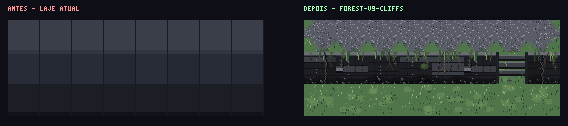
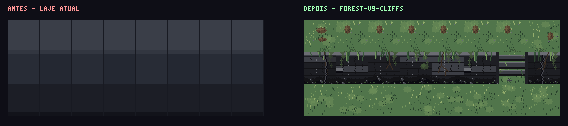
GS-003 art: fix topo do mirante (forest-v9-cliffs r2) + decisao de escala do Tamer
A) Topo do kit forest-v9-cliffs lia como pedra cinza-arroxeada (QA game-dev,
P7_GS012_DEV_R2.md Sec4) com mancha verde retangular visivel. Causa: cliffTopFg
usava d.cliffTop (copia escurecida de base.ground.stone -- pedra de verdade),
entao um tile de topo 100% interior (blob mask 15, R=0 em blob_autotile16) nunca
mostrava o fundo de grama. Fix: cliffTopFg agora usa d.grass (mesma rampa de
groundBase/cliffTopBg) como base, com manchas de terra batida (d.dirt) e pedrinhas
esparsas como minoria -- fg e bg do autotile compartilham paleta, entao o contraste
duro que lia como retangulo nos cantos arredondados some. So cliffTopFg mudou (face,
cantos, rampa, decalques intocados -- ja aprovados pelo QA). 16 tiles de topo + preview
+ mirante_comparison regenerados, 0 geracoes PixelLab. Mosaico dedicado r1-vs-r2 em
quality-overhaul/phase3/art/. Instrucoes de re-integracao para game-dev no relatorio
(mesmos nomes de arquivo, nenhuma mudanca de schema).

B) ART_DIRECTION_V2.md Sec1.5 nova: decisao de escala do Tamer, resolvendo os 3
numeros nao reconciliados achados por QA_P8_AND_V3FIX.md Sec1.2.1 (52-60px Sec1.2
descartada, 56-64px nativos Sec1.4 nao testado, ~90px fisicos de tela em
PHASE2_DEV.md Sec2). Decisao: 56-64px nativos / canvas 64-72px e o unico padrao
oficial (harmonizado com o Rookie/Guilmon ja testado); Sec1.2 marcada superada; os
90px fisicos documentados como grandeza diferente (tela pos-zoom, nao arte nativa),
[…]

Changed region(s): [[0.5088, 0.1429, 0.9877, 0.4286]]

diff --git a/projects/prototypes/GS-003/art/src/gen_forest_v9_cliffs.js b/projects/prototypes/GS-003/art/src/gen_forest_v9_cliffs.js
@@ -137,15 +137,50 @@ function stampRubble(c, cx, cy, d_, rnd, count) {
 // =========================================================================
 function cliffTopFg(c, x0, y0, w, h, _ramp, seed) {
   const rnd = rng(seed);
-  const top = d.cliffTop;
-  c.fillRect(x0, y0, x0 + w - 1, y0 + h - 1, top[1]);
-  for (let i = 0; i < Math.round(w * h * 0.12); i++) {
-    const px = x0 + Math.floor(rnd() * w), py = y0 + Math.floor(rnd() * h);
-    c.setPixel(px, py, rnd() < 0.5 ? top[0] : top[2]);
-  }
+  // r2 fix (QA P1-1, 2026-11-10): v2 filled the WHOLE top with d.cliffTop
+  // (a darkened/cooled copy of base.ground.stone -- literally rock), which
+  // is why the plateau read as a flat gray-purple stone slab even after
+  // the face got vegetation. The clearing's actual ground cover is grass,
+  // so an interior top tile (fully surrounded -- R=0 at every corner in
+  // blob_autotile16, 0% of cliffTopBg's grass shows through) must be
+  // grass-based on its own, not rely on bg peeking through corners. Base
+  // fill + speckle below mirrors groundBase() (same d.grass ramp as the
+  // forest floor everywhere else) so the plateau top matches the clearing
+  // instead of contrasting with it, and fg/bg no longer fight each other
+  // in blob corners -- that mismatch is what the dev report calls the
+  // visible "mancha verde retangular" (old stone fg meeting grass bg at a
+  // hard, differently-toned edge inside the same tile).
+  const g = d.grass;
+  c.fillRect(x0, y0, x0 + w - 1, y0 + h - 1, g[2]);
   for (let i = 0; i < 5; i++) {
-    const px = x0 + Math.floor(rnd() * w * 0.7), py = y0 + Math.floor(rnd() * h * 0.7);
-    c.setPixel(px, py, top[3]);
+    const cx = x0 + 3 + Math.floor(rnd() * Math.max(1, w - 6)), cy = y0 + 3 + Math.floor(rnd() * Math.max(1, h - 6));
+    c.fillEllipse(cx, cy, 4, 3, withAlpha(g[3], 120));
+  }
+  for (let i = 0; i < 40; i++) {
+    const bx = x0 + 1 + Math.floor(rnd() * (w - 2)), by = y0 + 1 + Math.floor(rnd() * (h - 3));
+    const lit = (bx + by) < 30;
+    const tone = lit ? pick(rnd, [g[4], g[3]]) : pick(rnd, [g[0], g[1]]);
+    c.setPixel(bx, by, tone);
+    if (rnd() < 0.5) c.setPixel(bx, by + 1, tone);
+  }
+  // worn-earth patches: packed dirt where feet/paws cross the lookout,
+  // 1-2 irregular blobs per tile (not a full stone sheet) -- the only
+  // "this sits on rock" cue left on the main surface, kept a minority so
+  // the top does not read as a slab again.
+  const dirtPatches = 1 + (rnd() < 0.35 ? 1 : 0);
+  for (let i = 0; i < dirtPatches; i++) {
+    const cx = x0 + 6 + Math.floor(rnd() * Math.max(1, w - 12)), cy = y0 + 6 + Math.floor(rnd() * Math.max(1, h - 12));
+    const rx = 3 + Math.floor(rnd() * 4), ry = 2 + Math.floor(rnd() * 3);
+    c.fillEllipse(cx, cy, rx, ry, d.dirt[1]);
+    c.fillEllipse(cx - 1, cy - 1, Math.max(1, rx - 2), Math.max(1, ry - 2), d.dirt[2]);
+    for (let p = 0; p < 6; p++) c.setPixel(cx + Math.round((rnd() - 0.5) * rx * 2), cy + Math.round((rnd() - 0.5) * ry * 2), d.dirt[0]);
+  }
+  // sparse pebbles poking through the turf -- minority presence, a nod to
+  // the rock underneath without dominating the read.
+  for (let i = 0; i < 3; i++) {
+    const px = x0 + Math.floor(rnd() * w), py = y0 + Math.floor(rnd() * h);
+    c.setPixel(px, py, d.stone[1]);
+    if (rnd() < 0.4) c.setPixel(px + 1, py, withAlpha(d.stone[0], 180));
   }
   // crumbling south edge: jittered moss/soil scatter, denser than v8, plus
   // a handful of grass blades poking past the edge (continues onto the

diff --git a/projects/prototypes/GS-003/quality-overhaul/phase3/art/MIRANTE_TOP_AND_SCALE.md b/projects/prototypes/GS-003/quality-overhaul/phase3/art/MIRANTE_TOP_AND_SCALE.md
@@ -1,0 +1,75 @@
+# Mirante — fix do topo + decisão de escala do Tamer (game-art, 2026-11-10)
+
+- **Autor:** game-art (diretor de arte) · GS-003 Quality Overhaul.
+- **Autorização:** noturna do fundador, **custo ZERO** — nenhuma ferramenta geradora do PixelLab usada (saldo 0,80 intocado). Tudo abaixo é pipeline local (`art/src/*.js`, Canvas.js próprio) ou edição de texto. Não publiquei nem apaguei nada.
+- **Legenda:** **[E]** evidência (arquivo/comando/medição de hoje) · **[H]** hipótese/julgamento.
+
+## A) Topo do mirante — `forest-v9-cliffs`
+
+### Diagnóstico [E]
+
+- Relatório do game-dev (`quality-overhaul/phase3/P7_GS012_DEV_R2.md` §4, worktree `workspaces/game-dev/qo`): kit `forest-v9-cliffs` (commit `6110bab`) integrado na branch `quality-overhaul`; a face melhorou (musgo, raízes), mas **"o topo do platô (3 linhas) continua uma placa de pedra cinza-arroxeada granulada, e a mancha verde retangular no meio do topo (camada antiga) evidencia o recorte"**.
+- Inspecionei as capturas `phase3/img/p7_mirante_depois_v9kit_dia_r2.png` e `_zoom_r2.png` (copiadas para revisão local, não editadas) — confirmo visualmente: faixa de ~3 tiles de topo em ruído cinza-azulado uniforme, e uma faixa verde plana com bordas retas logo acima do muro de face, sem textura orgânica, contrastando com o chão de grama ao redor.
+- **Causa raiz, lida no código** (`art/src/gen_forest_v9_cliffs.js`, `cliffTopFg` da v2/r1): a textura do topo usava `d.cliffTop` — em `forest_v8_depth_palette.js`, essa rampa é **literalmente** `base.ground.stone` escurecido e resfriado (`shiftColor(base.ground.stone[n], {vMul: 0.62–0.98, hueDeg: 4–6})`), ou seja, o topo era pedra de propósito, não terra/grama. Em `blob_autotile16.js`, um tile de topo totalmente cercado (bitmask 15, N/E/S/W presentes) tem raio de arredondamento `R=0` em todos os 4 cantos → **0% do fundo (`cliffTopBg`, grama) aparece**, 100% é a textura de pedra do `cliffTopFg` — por isso a maior parte do platô lia como laje de pedra mesmo depois do kit "orgânico". Nos cantos onde `R>0` (tiles de borda/ilha), o fundo de grama aparecia em quartos de círculo contra o fg de pedra cinza — esse contraste duro pedra-vs-grama dentro do mesmo tile é a origem mais provável da "mancha verde retangular" (fg e bg nunca tinham a mesma paleta para se misturar).
+
+### Correção [E]
+
+- Editei só `cliffTopFg()` em `art/src/gen_forest_v9_cliffs.js` (face, cantos, rampa e decalques **não foram tocados** — o QA do game-dev já aprovou essa parte, "se necessário" do pedido não se aplicou).
+- Base do topo trocada de `d.cliffTop` (pedra) para `d.grass` (a MESMA rampa de grama usada em `groundBase()`/`cliffTopBg()` e em todo o chão da clareira) — um tile totalmente interior agora lê como grama, não pedra.
+- Adicionado: 1–2 manchas irregulares de terra batida (`d.dirt`, não um retângulo — elipses irregulares, posição e tamanho por ruído) simulando uso/pisoteio no mirante; pedrinhas esparsas (`d.stone`, minoria, só um aceno de "isto é rocha por baixo"); borda sul (transição para a face) mantida como já estava — musgo/grama por ruído (`wobbleProfile`), já lia bem e o QA não reclamou dela.
+- Como fg e bg agora compartilham a mesma paleta de grama, o contraste duro que criava a leitura de "mancha retangular" nos cantos arredondados do autotile some — fg e bg se misturam em vez de colidir.
+- **Arquivos alterados:** `art/src/gen_forest_v9_cliffs.js` (só `cliffTopFg`) e os 16 PNGs regenerados em `art/map-factory/forest-v9-cliffs/tiles/cliff_top_blob_0.png` … `cliff_top_blob_15.png` (mesmos nomes, mesmo tamanho 32×32, mesma geometria de autotile — só a textura mudou). `preview.png` e `mirante_comparison.png` do kit também foram regenerados (mesmos nomes). `tileset.json`/`palette.json`/`license.json`/`README.md` do kit foram re-escritos pelo script mas o conteúdo não mudou (git confirma 0 diff nesses 4 arquivos).
+
+### Prévias
+
+- `projects/prototypes/GS-003/quality-overhaul/phase3/art/mirante_top_r1_vs_r2.png` (novo, gerado agora): mosaico dedicado comparando as 16 variantes de topo **r1 (commit `6110bab`, pedra cinza-arroxeada)** vs **r2 (este fix, grama/terra)**, lado a lado, mesma ordem de bitmask. Build local (`/tmp/build_top_r1r2_compare.js`, script descartável, não commitado — não faz parte do pipeline do kit).
+- `art/map-factory/forest-v9-cliffs/preview.png` (atualizado): prancha completa do kit (topo 16 + faces + cantos/rampa + decalques) já mostra o topo novo.
+- `art/map-factory/forest-v9-cliffs/mirante_comparison.png` (atualizado): a montagem "antes (laje v8) vs depois (kit)" de 8×3 do próprio kit, regenerada com o topo corrigido.
+
+### Instruções exatas para o game-dev re-integrar
+
+1. Puxar `master` de novo no worktree `quality-overhaul` (`git merge master`, como já fez para pegar `6110bab` — sem conflito esperado, só os 16 PNGs de topo + o `.js` gerador mudaram).
+2. **Nenhuma mudança de nome de arquivo ou de schema** — os 16 `cliff_top_blob_0.png`…`cliff_top_blob_15.png` continuam com os mesmos nomes, mesmo tamanho (32×32) e a mesma convenção de bitmask (`N*1+E*2+S*4+W*8`) de antes. O derivador (`derive-look-v9.mjs`) não precisa de nenhum ajuste de mapeamento — é o mesmo swap `fp8_cliff_*` → `fp9c_*` que já faz, só repetir para pegar os PNGs novos.
+3. Re-rodar `scripts/qo3-capture.mjs mirante` para novas capturas `_r3` (ou sufixo que preferirem) e confirmar visualmente: topo deve ler como grama/terra do mesmo tom do resto da clareira, sem faixa de pedra uniforme e sem retângulo verde de contraste duro.
+4. Se a "mancha retangular" **ainda** aparecer depois deste fix, não é mais textura do kit (fg/bg já compartilham paleta) — provavelmente é uma camada antiga do mapa (chão/decor anterior ao kit) não totalmente coberta pelas 16 variantes de topo nas células do mirante; nesse caso o próximo passo é conferir, célula a célula do platô, se alguma usa um bitmask fora do conjunto 0–15 ou se há uma layer de chão antiga visível por baixo — isso é integração (game-dev), não art.
+
+### Limitações (autocrítica)
+
+- **Não testado no motor real** — só inspecionado via `preview.png`, `mirante_comparison.png` e o mosaico dedicado `mirante_top_r1_vs_r2.png`. Não tenho acesso de escrita ao worktree do game-dev para rodar `qo3-capture.mjs` e confirmar in-game; só o próprio game-dev pode fazer essa re-captura.
+- A hipótese da causa-raiz da "mancha verde retangular" (contraste fg/bg nos cantos arredondados do blob) é **[H]** — lida no código, não confirmada pixel a pixel contra a captura real do bug (não tenho o PNG da célula exata do mapa que tinha a mancha, só a visão geral/zoom da clareira). Se a causa real for outra (ex. camada antiga do mapa não substituída), o item 4 das instruções acima cobre esse caso.
+- A terra batida e as pedrinhas esparsas continuam sendo ruído procedural (`wobbleProfile`/posições aleatórias clampadas), não desenho à mão — mesma limitação já registrada no `README.md` original do kit (v2): resolve a leitura "pedra lisa"/"mancha retangular", mas de perto ainda é claramente procedural.
+- Não toquei a face, os cantos, a rampa nem os decalques — o QA do game-dev já aprovou essa parte da r1; se uma futura passada quiser uniformizar ainda mais a transição topo↔face, isso fica para uma próxima rodada.
+
+## B) Decisão de escala do Tamer
+
+### O que foi decidido
+
+- Arquivo: `projects/prototypes/GS-003/quality-overhaul/ART_DIRECTION_V2.md`, nova seção **§1.5 "Decisão de escala — 2026-11-10 (Tamer, resolve QA P8 §1.2.1)"**, inserida ao final da seção 1 (depois de §1.4.4, antes de "## 2. Paleta por região").
+- **Padrão oficial único:** arte nativa do Tamer em **56–64 px de altura de corpo, canvas 64–72 px** — a mesma faixa já testada e confirmada para o Rookie/Guilmon (`phase2/art/scale-proof/`, 60×68 px), harmonizando jogador e parceiro na mesma régua "nível Drakantos". Isso faz de `§1.4.1` o único número de arte nativa válido para o Tamer a partir de hoje.
+- **Os "52–60 px" de §1.2 ficam formalmente superados** — já estavam marcados "não usar para produção" desde a revisão de §1.4, mas voltaram a ser citados por `QA_PHASE3.md`; adicionei uma nota em §1.2 apontando explicitamente para §1.5, para fechar esse loop de citação.
+- **O "~90 px físicos" de `phase2/PHASE2_DEV.md` §2 não é o mesmo tipo de número** — é o tamanho RENDERIZADO NA TELA do placeholder atual (Tamer de 30 px lógicos × fator de escala inteiro 3 do `dprLayout()`, alvo `charh` ≈ 9% da altura física), não o tamanho da arte nativa. A decisão documenta essa distinção explicitamente (arte nativa vs. zoom de tela são grandezas diferentes) e registra que, quando o Tamer for redesenhado em 56–64 px nativos (quase o dobro do placeholder), o fator inteiro do `dprLayout()` precisa cair (de 3× para algo entre 1× e 2×) para manter o mesmo alvo de tela já aprovado — valor exato fica para `game-dev` testar no jogo real, mesma ressalva que §1.4.2 já registrava para o Rookie.
+
+### Como isso desbloqueia o P8
+
+- O retrato mini (48×48 px) e o retrato grande (72×72 px, spec P8 §4.1/§5) agora têm uma única fonte de verdade para o tamanho de arte nativa a recortar (56–64 px / canvas 64–72 px), eliminando a escolha entre 3 números concorrentes que travava a decisão.
+- Para o parceiro Digimon (Guilmon/Rookie) não havia bloqueio real: a escala já estava confirmada e testada; o retrato pode ser recortado da arte existente.
+- Para o Tamer, a arte na escala nova ainda não existe (só o Guilmon foi testado, confirmado em §1.4.4) — a decisão não cria a arte (fora do escopo de uma noite de custo zero), mas remove a ambiguidade que impedia a spec de sequer declarar qual tamanho usar. Um retrato feito hoje do sprite placeholder de 30 px deve ser marcado como provisório, não final — isso também ficou registrado na seção nova.
+
+### Limitações (autocrítica)
+
+- A decisão é de **arte** (tamanho do sprite), não resolve zoom/câmera — mesma ressalva que `§1.4.2` já tinha para o Rookie; a recalibração exata do `dprLayout()` fica para `game-dev` testar.
+- Não gerei nem redesenhei o sprite do Tamer na nova escala — isso exigiria gerações do PixelLab (saldo 0,80, não autorizado hoje). A decisão só fixa o número-alvo para quando o orçamento permitir.
+- A relação "~90px → algo entre 1× e 2×" é estimativa aritmética simples (30px × 3 ≈ 56–64px × [1–2]) **[H]**, não testada; o `dprLayout()` real arredonda para fator inteiro de tela, então o valor final pode cair fora dessa faixa dependendo de como a função arredonda — fica para `game-dev` confirmar.
+
+## Arquivos
+
+- **Alterados:**
+  - `art/src/gen_forest_v9_cliffs.js` (só `cliffTopFg`)
+  - `art/map-factory/forest-v9-cliffs/tiles/cliff_top_blob_0.png` … `cliff_top_blob_15.png` (16 arquivos)
+  - `art/map-factory/forest-v9-cliffs/preview.png`
+  - `art/map-factory/forest-v9-cliffs/mirante_comparison.png`
+  - `quality-overhaul/ART_DIRECTION_V2.md` (nota em §1.2 + nova §1.5)
+- **Novos:**
+  - `quality-overhaul/phase3/art/mirante_top_r1_vs_r2.png` (mosaico de comparação dedicado)
+  - `quality-overhaul/phase3/art/MIRANTE_TOP_AND_SCALE.md` (este arquivo)
+- **Não tocados:** `art/map-factory/forest-v9-cliffs/tiles/cliff_face_*`, `cliff_face_corner_*`, `cliff_ramp.png`, `decals/*`, `palette.json`, `tileset.json`, `license.json`, `README.md` (re-escritos pelo script, 0 diff de conteúdo).

diff --git a/projects/prototypes/GS-003/quality-overhaul/ART_DIRECTION_V2.md b/projects/prototypes/GS-003/quality-overhaul/ART_DIRECTION_V2.md
@@ -15,7 +15,7 @@
 
 ### 1.2 Regra de escala por porte (tile = 32 px, mantido) — proposta inicial, ver §1.4 para a decisão oficial confirmada
 
-> **Esta tabela foi revisada em §1.4** (2026-11-10) depois da prova técnica de escala (`phase2/art/scale-proof/`). Fica aqui só como registro da lógica original — **não usar para produção**, usar §1.4.
+> **Esta tabela foi revisada em §1.4** (2026-11-10) depois da prova técnica de escala (`phase2/art/scale-proof/`). Fica aqui só como registro da lógica original — **não usar para produção**, usar §1.4. **Para o Tamer especificamente, os "52–60 px" abaixo estão SUPERADOS por §1.5 (2026-11-10)** — voltaram a circular em `quality-overhaul/phase3/qa/QA_PHASE3.md` apesar deste aviso, e `QA_P8_AND_V3FIX.md` §1.2.1 apontou a confusão; §1.5 fecha o número oficial único.
 
 | Porte | Altura nativa alvo (sprite de mapa, só o corpo, sem folga) | Relação ao tile |
 |---|---|---|
@@ -73,6 +73,30 @@
 - Só Rookie (Guilmon) foi testado de verdade; Bebê/Champion/Mega/Tamer na tabela §1.4.1 são proposta por extrapolação proporcional, não teste (`[H]`).
 - O impacto em zoom/câmera (§1.4.2) é análise de arte, não foi validado dentro do jogo rodando — decisão de integração fica com `game-dev`/`game-design`.
 - O custo §1.4.3 assume que toda criatura consegue uma referência de entrada equivalente ao frame S limpo do Guilmon — espécies sem isso (ver `phase2/art/scale-proof/README.md` §6) podem custar mais ou sair com qualidade diferente.
+
+### 1.5 Decisão de escala — 2026-11-10 (Tamer, resolve QA P8 §1.2.1)
+
+**Problema [E]:** `QA_P8_AND_V3FIX.md` §1.2.1 (`quality-overhaul/phase2/qa/`) achou **3 números de "altura do Tamer" não reconciliados** circulando no projeto, nenhum citado pela spec de HUD v2 (P8) ao descrever o "retrato mini 48×48px, recorte do sprite do Tamer":
+
+1. **52–60 px** — `ART_DIRECTION_V2.md` §1.2 (tabela descartada, já marcada "não usar para produção" mas citada de novo por `quality-overhaul/phase3/qa/QA_PHASE3.md`).
+2. **56–64 px nativos** — `ART_DIRECTION_V2.md` §1.4.1 (tabela oficial atual), harmonizado com o Rookie/Guilmon testado — mas o próprio §1.4.4 já avisava: **só o Guilmon foi testado, o Tamer nessa faixa não**.
+3. **~90 px físicos na tela** — `phase2/PHASE2_DEV.md` §2, o que está de fato implementado hoje: `dprLayout()` escala um Tamer de referência de **30 px lógicos** (a arte-placeholder atual, ~32×32px) por um fator inteiro de **3** (a 1080p) para atingir `charh` ≈ 9% da altura física da tela.
+
+(1) e (2) são tamanho de **arte nativa** (canvas do sprite, o que o game-art desenha). (3) é tamanho **renderizado na tela** depois do zoom de câmera — uma grandeza diferente, que não deveria ter sido comparada diretamente com (1)/(2) para começar. Nenhum documento fazia essa distinção explicita antes desta seção.
+
+**Decisão (diretor de arte, 2026-11-10):**
+
+- **Padrão único de arte nativa do Tamer: altura de corpo 56–64 px, canvas 64–72 px.** É exatamente a mesma faixa já testada e confirmada para o Rookie (Guilmon, `phase2/art/scale-proof/`, entregue em 60×68 px) — Tamer e parceiro ficam na MESMA régua "nível Drakantos" pedida pelo fundador (`evidence/drakantos-video/`), em vez de o Tamer ficar levemente menor como a tabela antiga de §1.2 propunha (52–60 px vs. Rookie 56–64 px). §1.4.1 é, a partir de agora, o único número de arte nativa válido para o Tamer — §1.2 (item 1 acima) fica formalmente superado, sem exceção.
+- **O fator de escala de tela é um parâmetro separado da arte, não o mesmo tipo de número.** O "~90 px físicos" de `PHASE2_DEV.md` §2 mede o placeholder de 30 px lógicos de hoje após o zoom `dprLayout()`, não a arte nova de 56–64 px — os dois números param de ser comparados entre si a partir de agora.
+- **Relação entre os dois quando a arte nova entrar:** se o Tamer for redesenhado em 56–64 px nativos (quase o dobro do placeholder de 30 px), o fator inteiro de `dprLayout()` precisa CAIR para manter o mesmo alvo de tela já aprovado (`charh` 8–10%, hoje fator 3) — grosso modo de 3× para algo entre 1× e 2×, dependendo do arredondamento ao inteiro mais próximo que `dprLayout()` já faz. **O valor exato é decisão de `game-dev`, testada no jogo real** — mesma ressalva já registrada em §1.4.2 para o Rookie: este documento de arte fixa só a escala nativa do sprite, não o zoom/câmera.
+
+**O que isso desbloqueia (P8):**
+
+- Retrato mini (48×48 px) e retrato grande (72×72 px, §5 da spec P8) devem ser recortados a partir da arte nativa de 56–64 px (canvas 64–72 px) definida aqui — nunca do placeholder de 30 px hoje em produção: um recorte de 48–72 px a partir de 30 px sairia upscaled/borrado, exatamente o risco já citado por `QA_P8_AND_V3FIX.md` §1.2.1.
+- Para o parceiro Digimon (Guilmon/Rookie), não há bloqueio: a escala já está confirmada e testada (§1.4.1), o retrato pode ser recortado da arte existente hoje.
+- Para o Tamer, a AMBIGUIDADE que travava a spec (3 números concorrentes, nenhum oficial) acaba aqui: quando a arte do Tamer for redesenhada (fora do escopo desta decisão — custo zero hoje, ver limitação abaixo), ela já nasce no tamanho certo para os dois recortes do P8, sem mais escolha entre 3 valores.
+
+**Limitação [H]:** esta decisão fixa o número-alvo, mas não autoriza gasto de PixelLab para redesenhar o Tamer agora — a autorização de hoje é custo zero (saldo 0,80). Enquanto o Tamer não for redesenhado em 56–64 px, um retrato P8 feito do sprite atual (30 px) deve ser marcado como provisório/placeholder visual, não como arte final.
 
 ---
 
